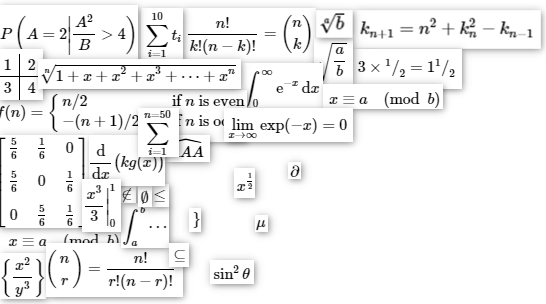
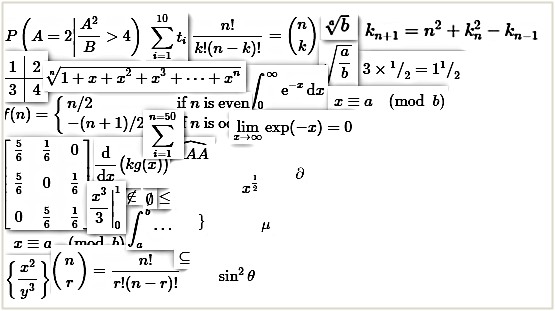
css

diff --git a/themes/wyrfraym/layouts/partials/head.html b/themes/wyrfraym/layouts/partials/head.html
@@ -21,6 +21,10 @@ body{
    background-repeat: no-repeat;
 }
 
+body{
+background-color: #DCD9C9;
+}
+
 body {margin:10;}
 
 

diff --git a/content/_index.md b/content/_index.md
@@ -4,6 +4,11 @@
 
 <style>
 
+body{
+background-color: #DCD9C9;
+
+}
+
 
 img {
   border-radius: 8px;
